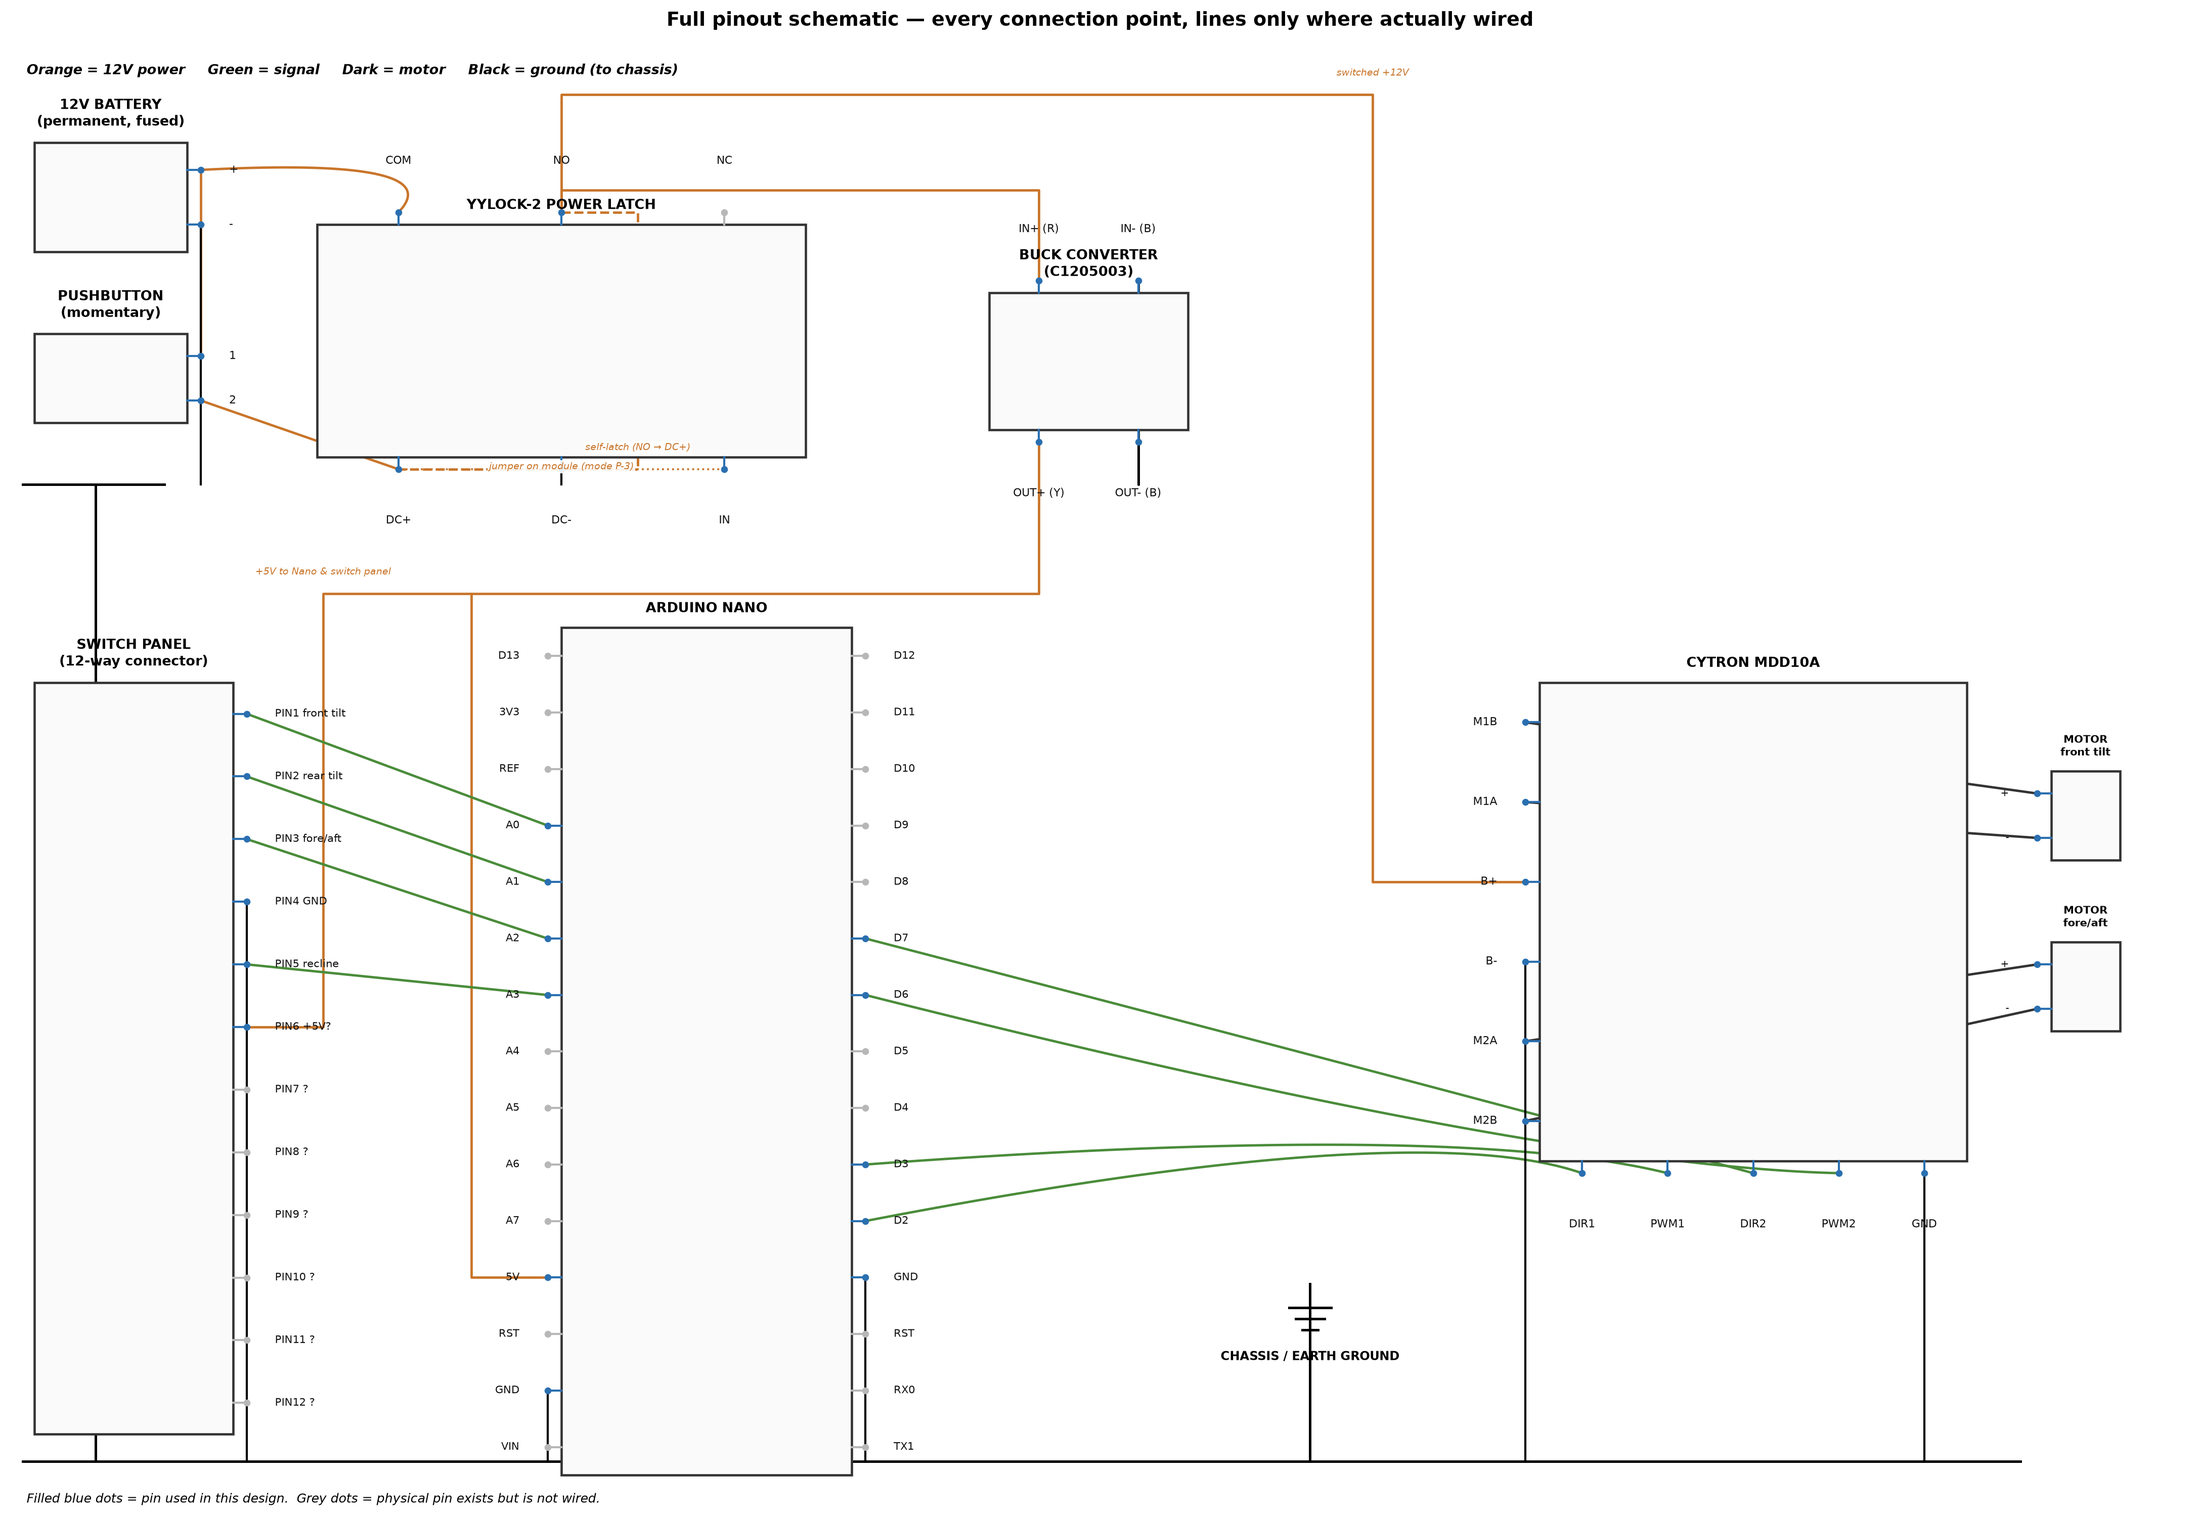
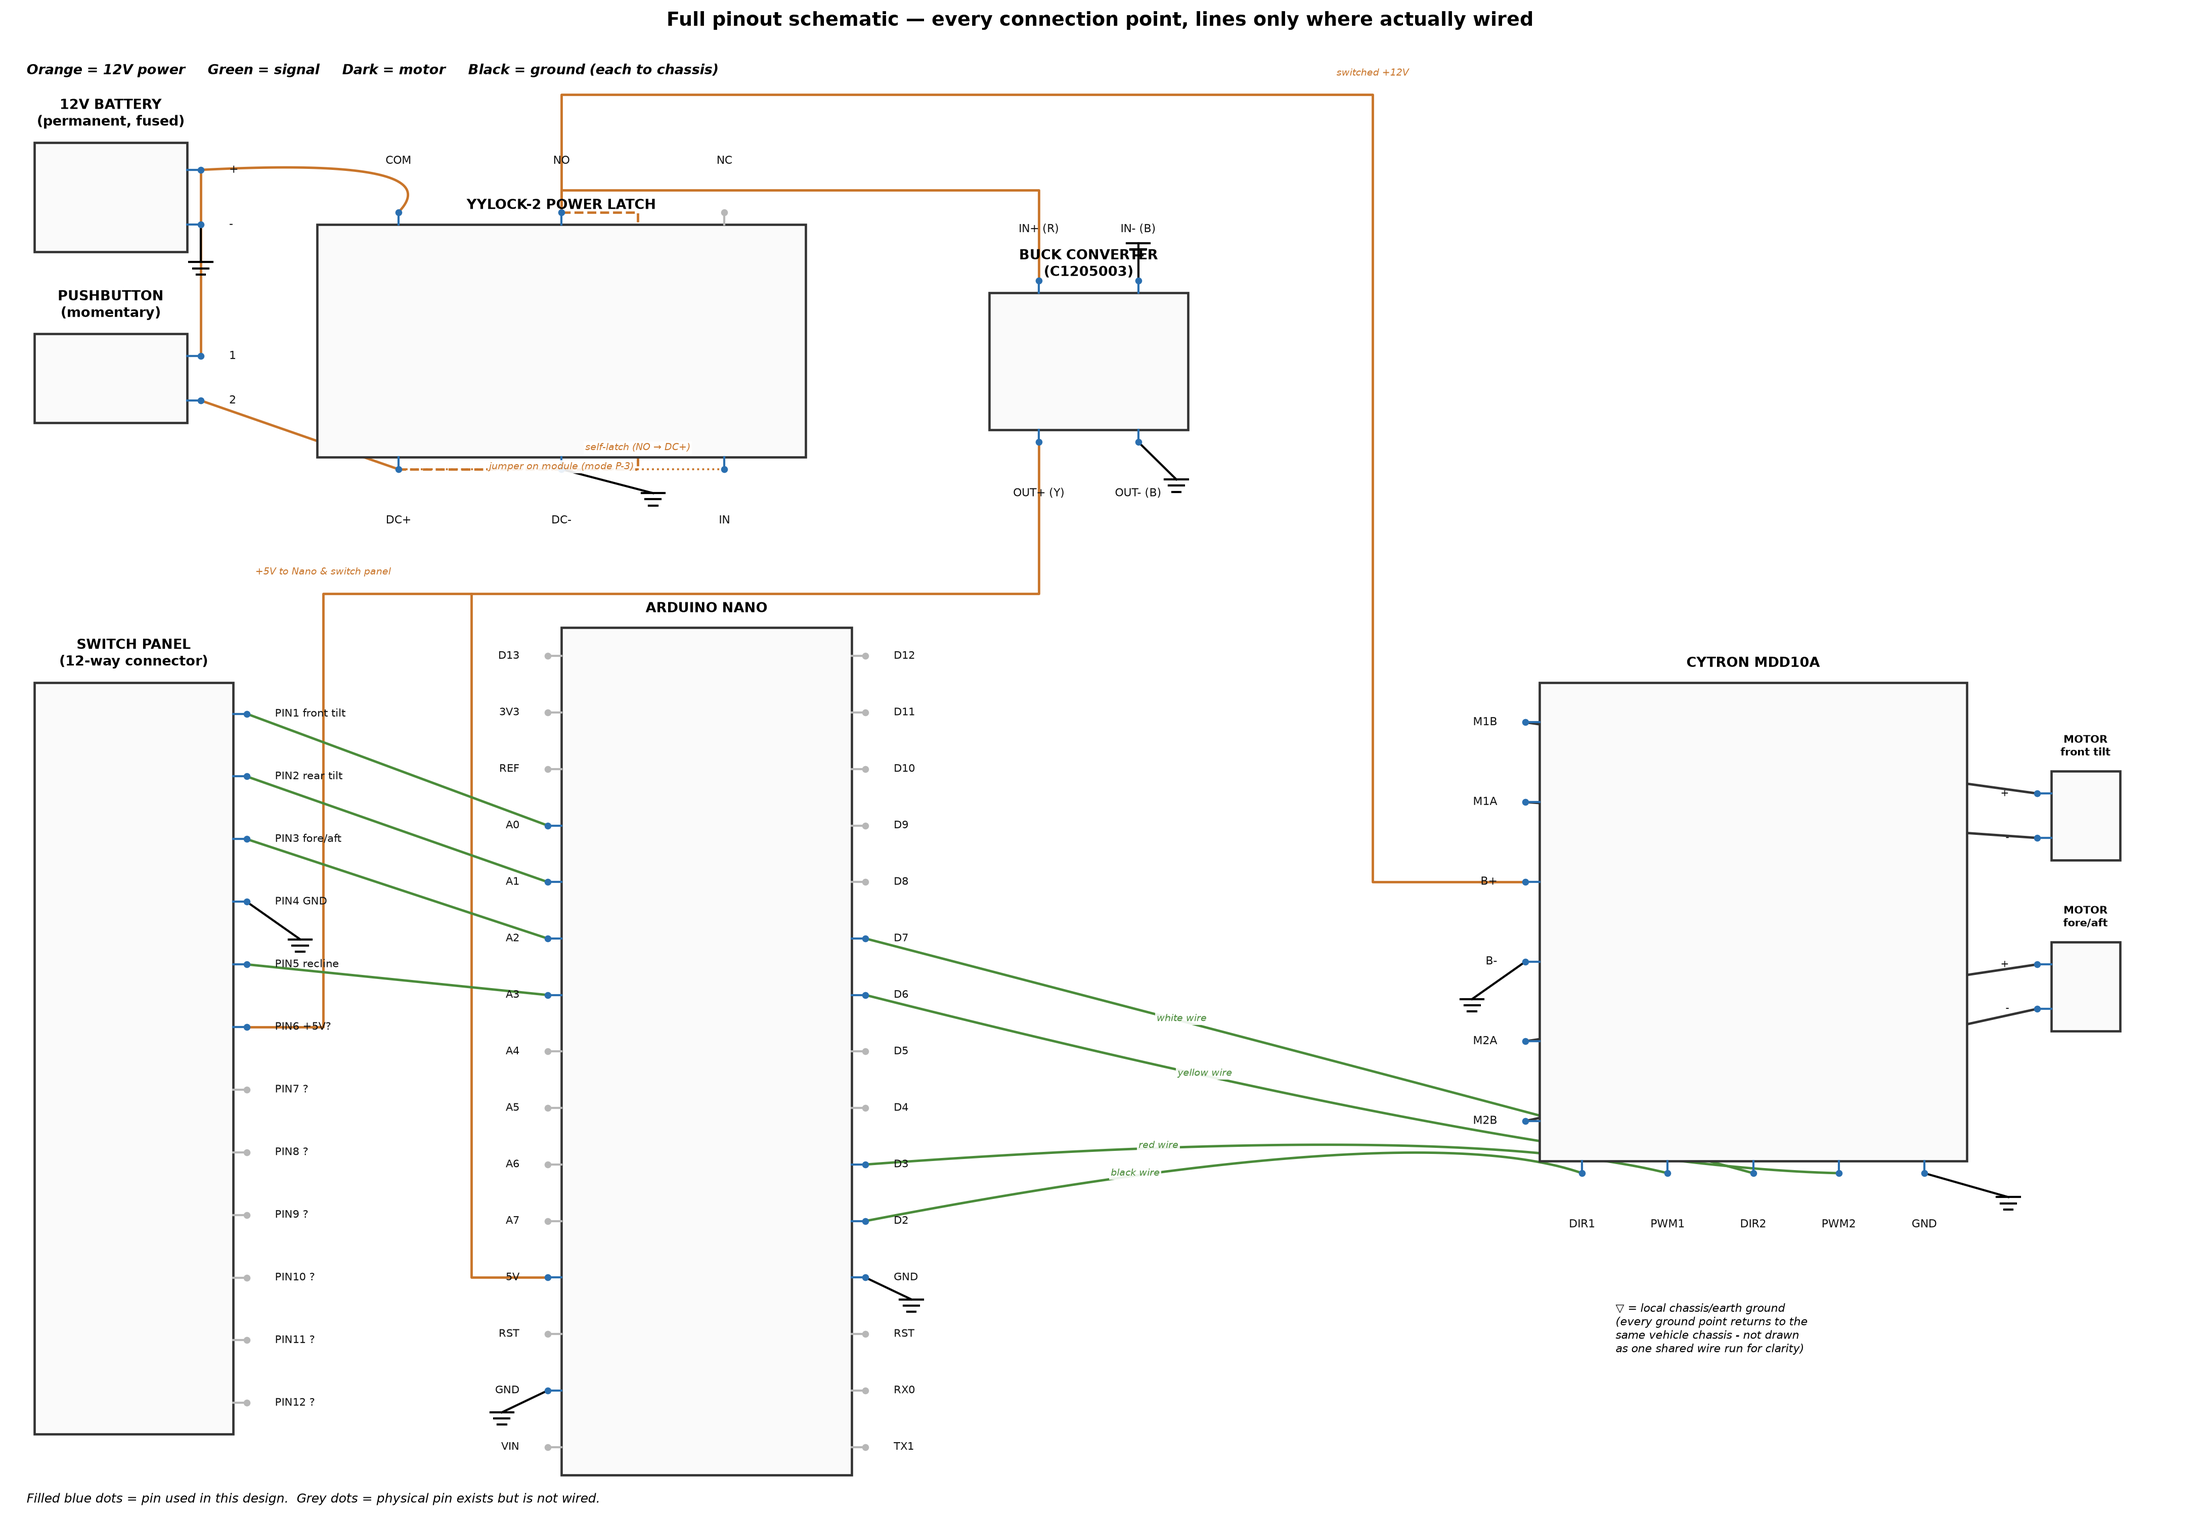
Use local ground symbols instead of a shared bus, add confirmed cable colors
Replaces the shared ground rail/trunk with a small chassis-ground
symbol at each individual ground point - simpler to read and more
honest about there being no single physical wire joining them all in
the car (they share a chassis, not a wire run).

Also labels the Nano-Cytron control cable's four signal wires with
their confirmed real-world colors (black/red/yellow/white), read from
the physical KF2510 cable's Nano-side landing. Flags in Next Steps and
the diagram caption that the Cytron-side end of that cable still needs
independent confirmation before fully trusting the mapping.

diff --git a/README.md b/README.md
@@ -188,10 +188,14 @@ is a proposed build, not a verified one.
 *Every connection point on every component, drawn like a circuit board view — filled blue dots are
 pins actually wired in this design; grey dots are real pins on the part that are simply unused
 (e.g. the switch panel's 6 unidentified cavities, the YYLOCK-2's `NC` contact, most of the Nano's
-pins). Orange = 12V power, green = signal, dark = motor output, black = ground. All grounds
-(battery, YYLOCK-2, buck converter, Nano ×2, Cytron ×2, switch panel PIN 4) return to one common
-chassis/earth point — in the car, that's the vehicle chassis itself, not a separate ground wire run
-back to the battery.*
+pins). Orange = 12V power, green = signal, dark = motor output. Each `▽` is a local chassis/earth
+ground symbol — every ground point (battery, YYLOCK-2, buck converter, Nano ×2, Cytron ×2, switch
+panel PIN 4) returns to the same vehicle chassis; they're drawn as separate local symbols rather
+than one wire run joining them all, since in the car they don't share a physical wire back to a
+single point anyway. The Nano↔Cytron control cable's real wire colours are labelled on those four
+signal lines (black/red/yellow/white) — confirmed from the physical KF2510 cable; only the Nano end
+has been traced so far, so double-check the same colours land on Cytron's `DIR1/PWM1/PWM2/DIR2`
+silkscreen before trusting it fully.*
 
 For a lower-detail overview, the same system split into just power and signal flow:
 
@@ -376,8 +380,9 @@ Not started. Before any of this touches a vehicle:
   genuinely unused or carry signals not yet identified.
 - Trace the pigtail's 12 wires back to their cavities and record the mapping in this README —
   needed before wiring the pigtail to the Nano.
-- Identify the KF2510 cable's 5 bare leads against `DIR1/PWM1/DIR2/PWM2/GND` and land them on the
-  correct Nano pins per `seat_control_main.ino` (D2/D3 for front_tilt, D7/D6 for fore_aft).
+- Nano-side landing of the KF2510 cable is done: `GND`→orange, `D2`→black, `D3`→red, `D6`→yellow,
+  `D7`→white (see [Proposed system wiring](#proposed-system-wiring)). Still need to confirm the
+  same colours land on Cytron's `DIR1/PWM1/PWM2/DIR2/GND` silkscreen on the other end.
 - Update the placeholder thresholds in `seat_control_main` once real PIN 2/3/5 values are in.
 - Source a second Cytron MDD10A (or equivalent dual H-bridge) — one board only covers 2 of the 4
   seat motors.
